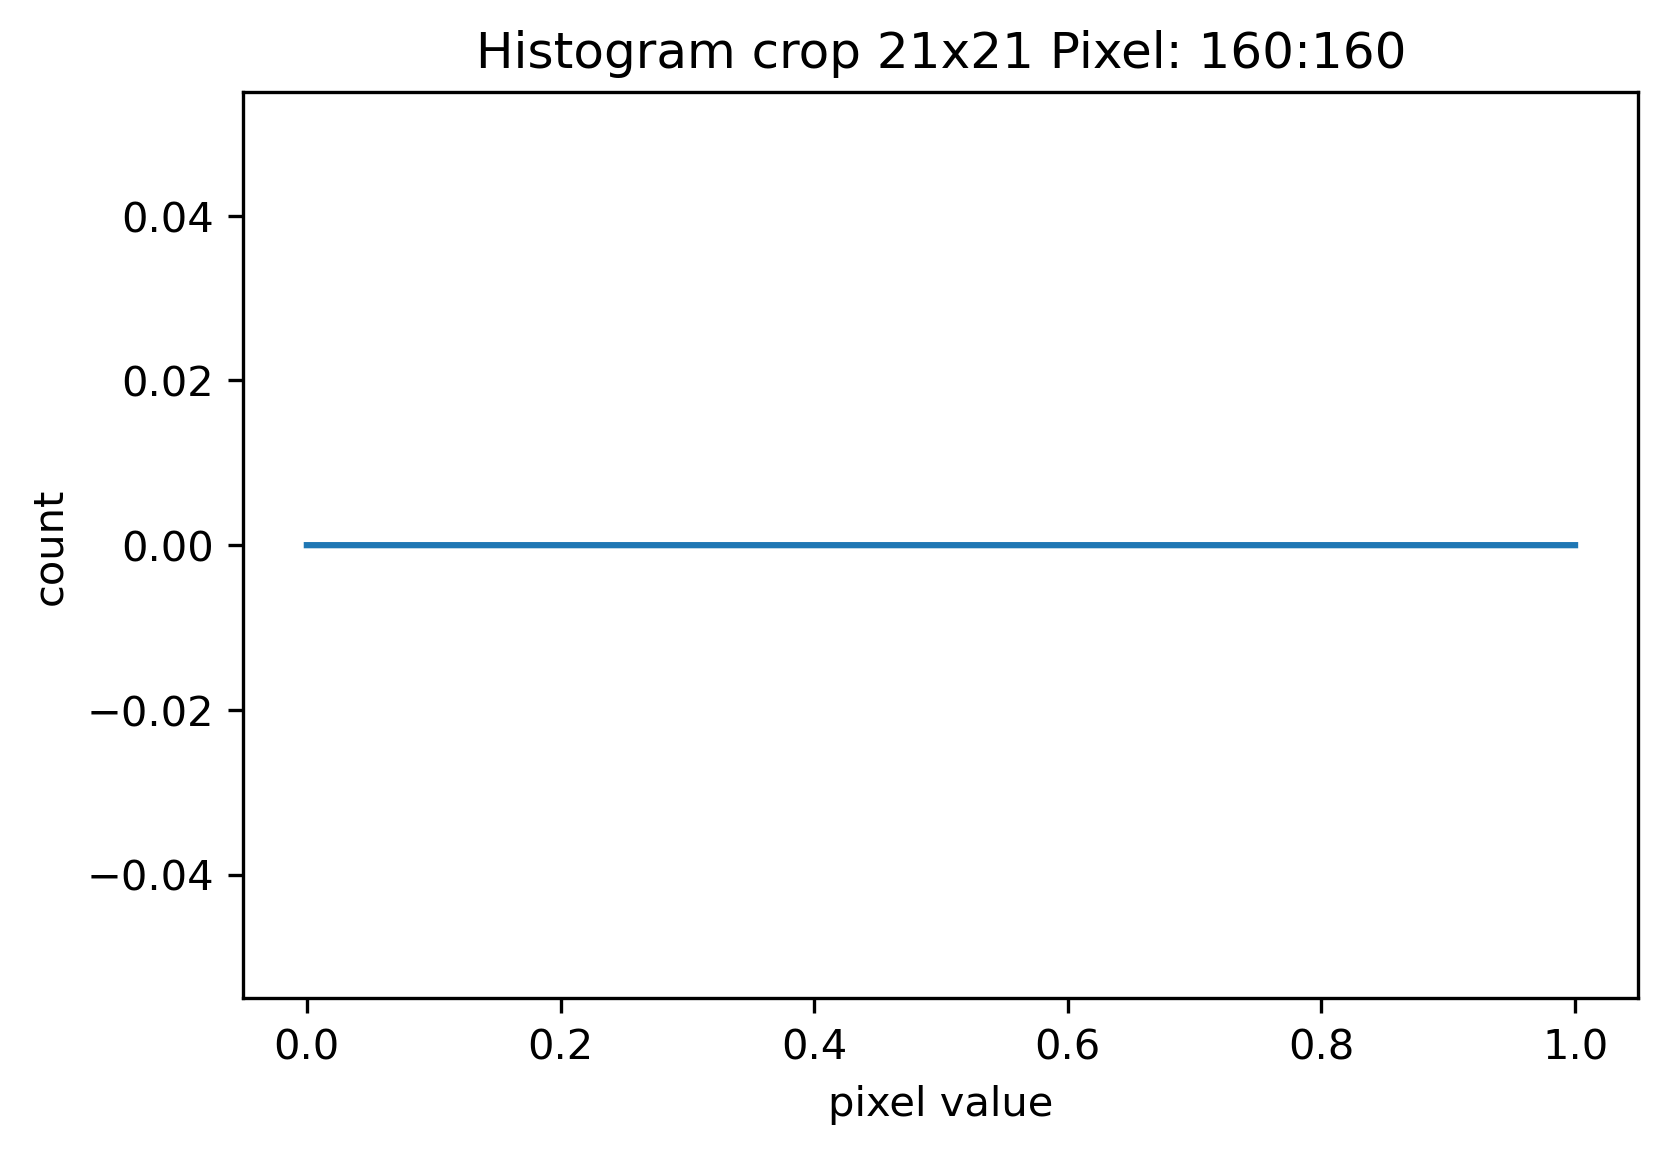
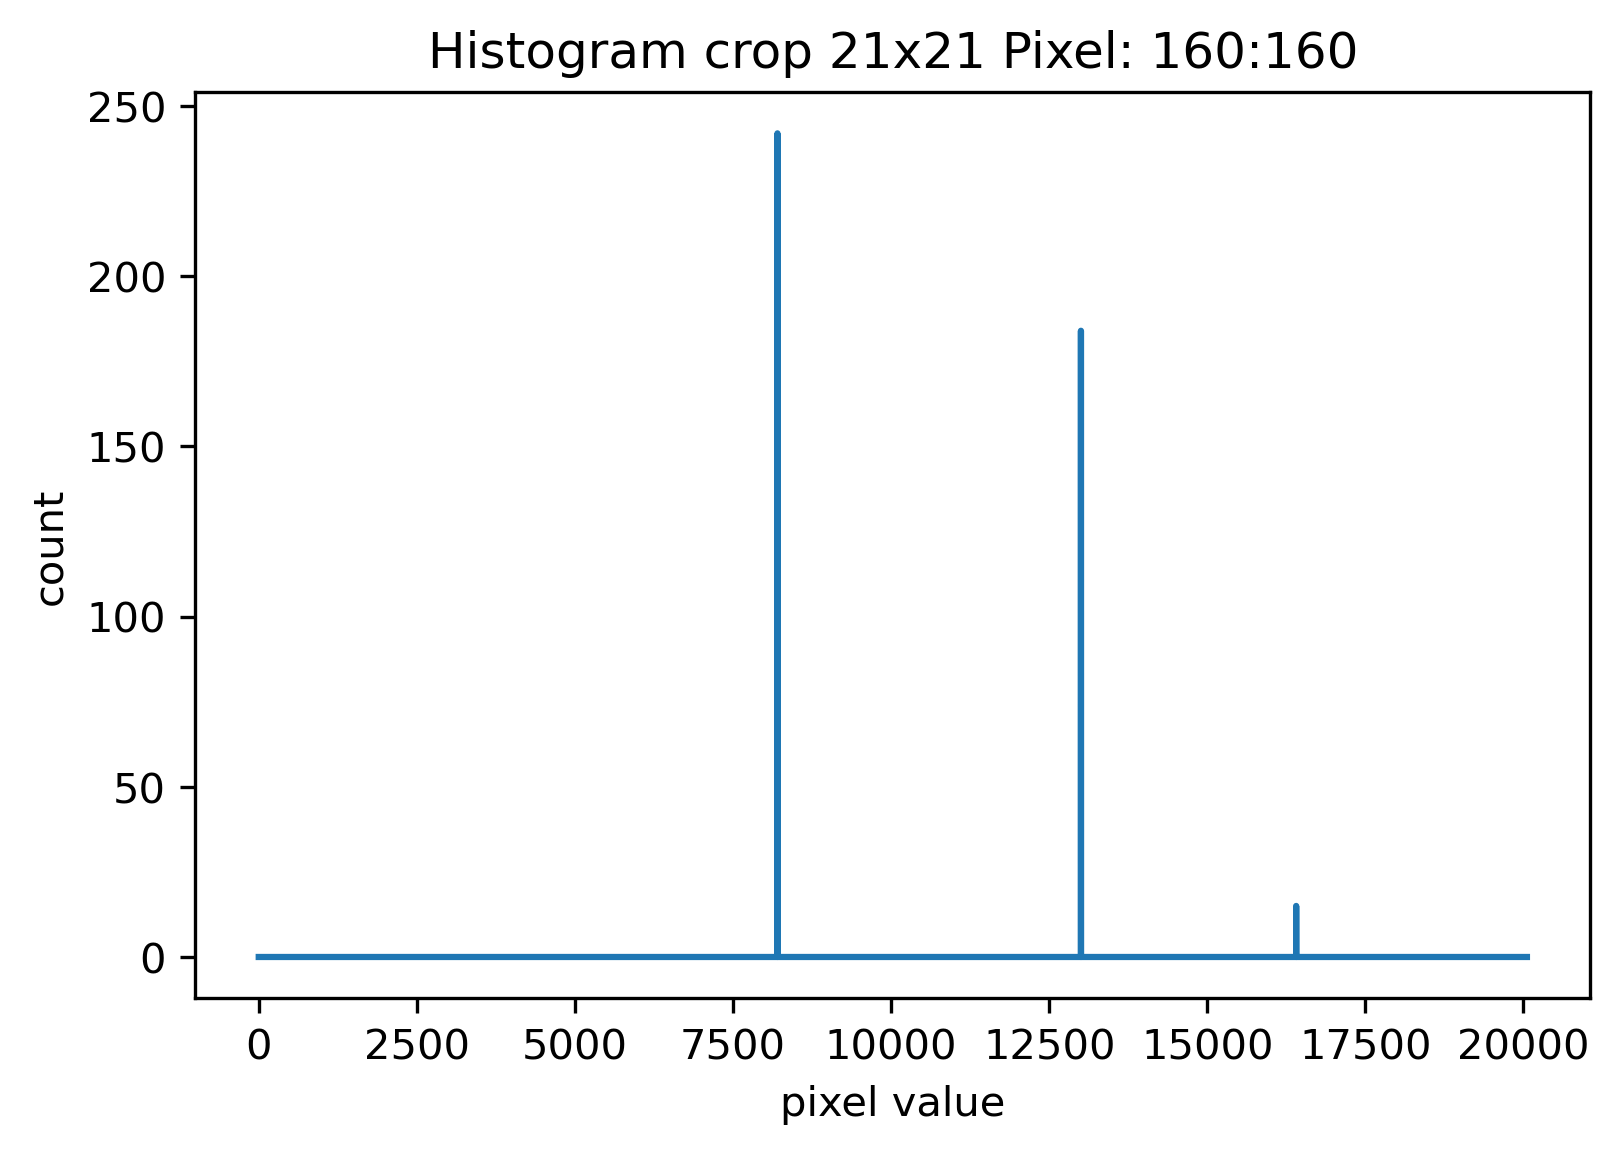
working

diff --git a/1. Exercise/FCNs_1_2.py b/1. Exercise/FCNs_1_2.py
@@ -108,33 +108,16 @@ def Neighborhood(PixelX,PixelY,PixelX1,PixelY1,PixelX2,PixelY2,img):
     print("Standard deviation of the selected area is: ", std)
     print("Mean value of the selected area is: ", mean)
 
-    histogram, bin_edges = np.histogram(img_crop, bins=2**16, range=(0, 1))
+    histogram, bin_edges = np.histogram(img_crop2, bins=2**16, range=(0, 20055))
       # configure and draw the histogram figure
     plt.figure()
     plt.title("Histogram crop 21x21 Pixel: "+str(PixelX)+":"+str(PixelY))
     plt.xlabel("pixel value")
     plt.ylabel("count")  
     plt.plot(bin_edges[0:-1], histogram)
-    plt.savefig('2.4_Histogram_crop_21x21.png', dpi=300, bbox_inches='tight')
+    plt.savefig('2.4_Histogram_crop_21x21a2.png', dpi=300, bbox_inches='tight')
     
-   histogram, bin_edges = np.histogram(img_crop1, bins=2**16, range=(0, 1))
-     # configure and draw the histogram figure for the 2nd crop
-   plt.figure()
-   plt.title("Histogram crop 21x21 Pixel: "+str(PixelX1)+":"+str(PixelY1))
-   plt.xlabel("pixel value")
-   plt.ylabel("count")  
-   plt.plot(bin_edges[0:-1], histogram)
-   plt.savefig('2.4_Histogram_crop_21x21a1.png', dpi=300, bbox_inches='tight')
-
-   histogram, bin_edges = np.histogram(img_crop2, bins=2**16, range=(0, 1))
-     # configure and draw the histogram figure for 3rd crop
-   plt.figure()
-   plt.title("Histogram crop 21x21 Pixel: "+str(PixelX2)+":"+str(PixelY2))
-   plt.xlabel("pixel value")
-   plt.ylabel("count")  
-   plt.plot(bin_edges[0:-1], histogram)
-   plt.savefig('2.4_Histogram_crop_21x21a2.png', dpi=300, bbox_inches='tight')
-    
+   
     return img_crop
 
 def Threshold_diff(t,t1,raw_img):
